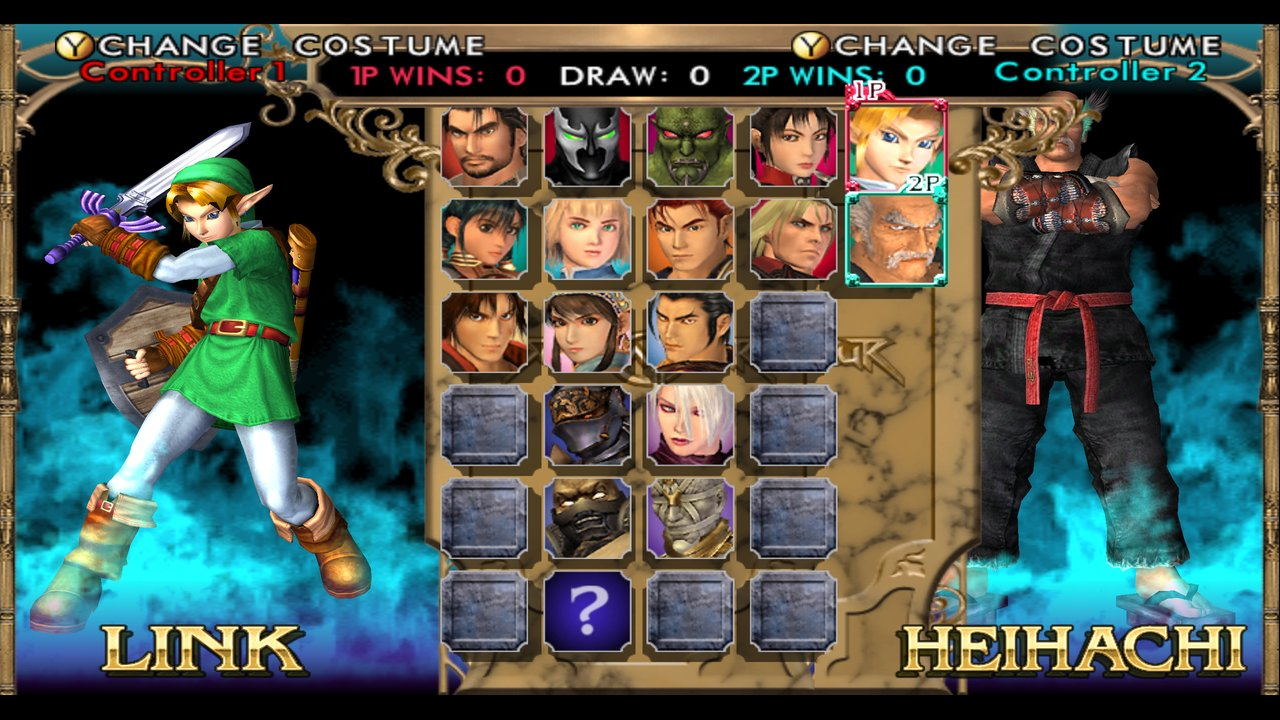
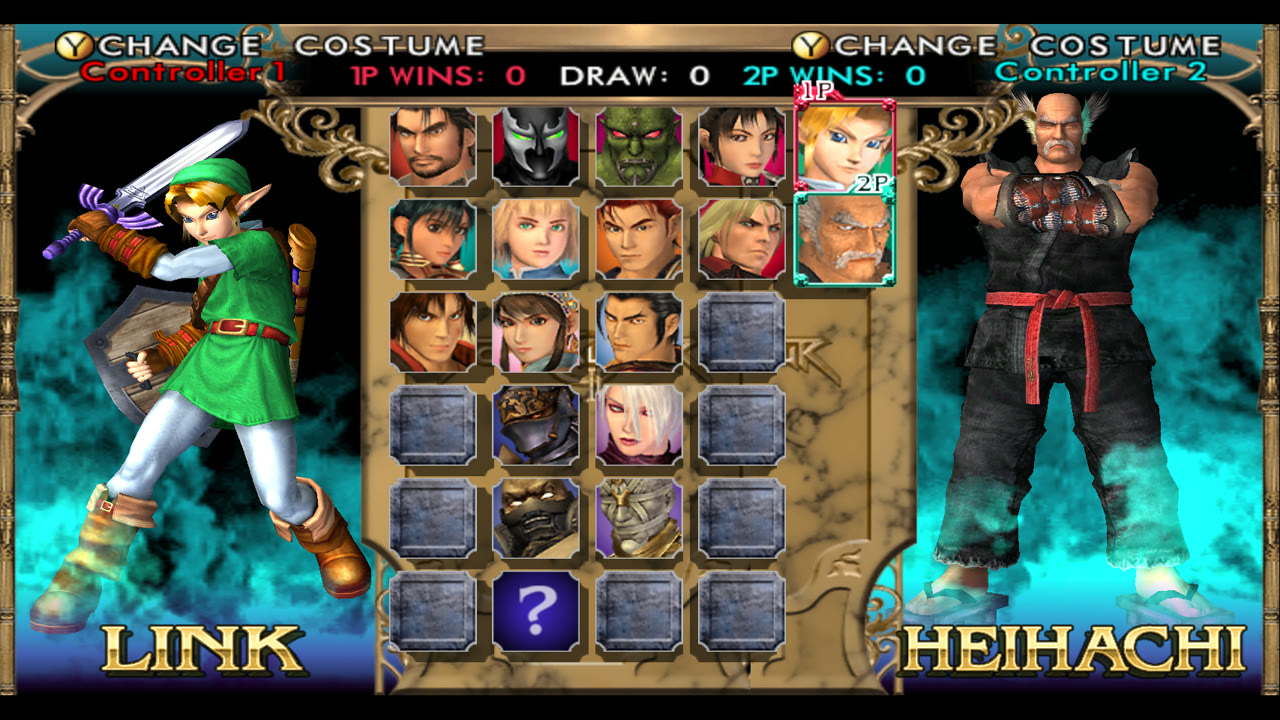
README: the character select shot with the grid centred
Claude-Session: https://claude.ai/code/session_0194hRTJpB1sHevGsA6B5SXD

diff --git a/CHANGELOG.md b/CHANGELOG.md
@@ -2,6 +2,9 @@
 
 ## Unreleased
 
+- **Character select centred with the guests**: the grid, which the guests' fifth column made half a column
+  wider on the right, is centred again, clear of player 2's model.
+
 ## 0.1.0-beta.2
 
 The first public release. Online play is smoother and easier to start: fights run at full speed on a Steam Deck, a host keeps playing while waiting for someone to join, and joining explains itself when the two players' guests differ. Also new: RetroArch's CRT and scanline shaders. Both players need this version to play each other online, and guests built by beta.1 should be rebuilt (the launcher's Guest page asks).
